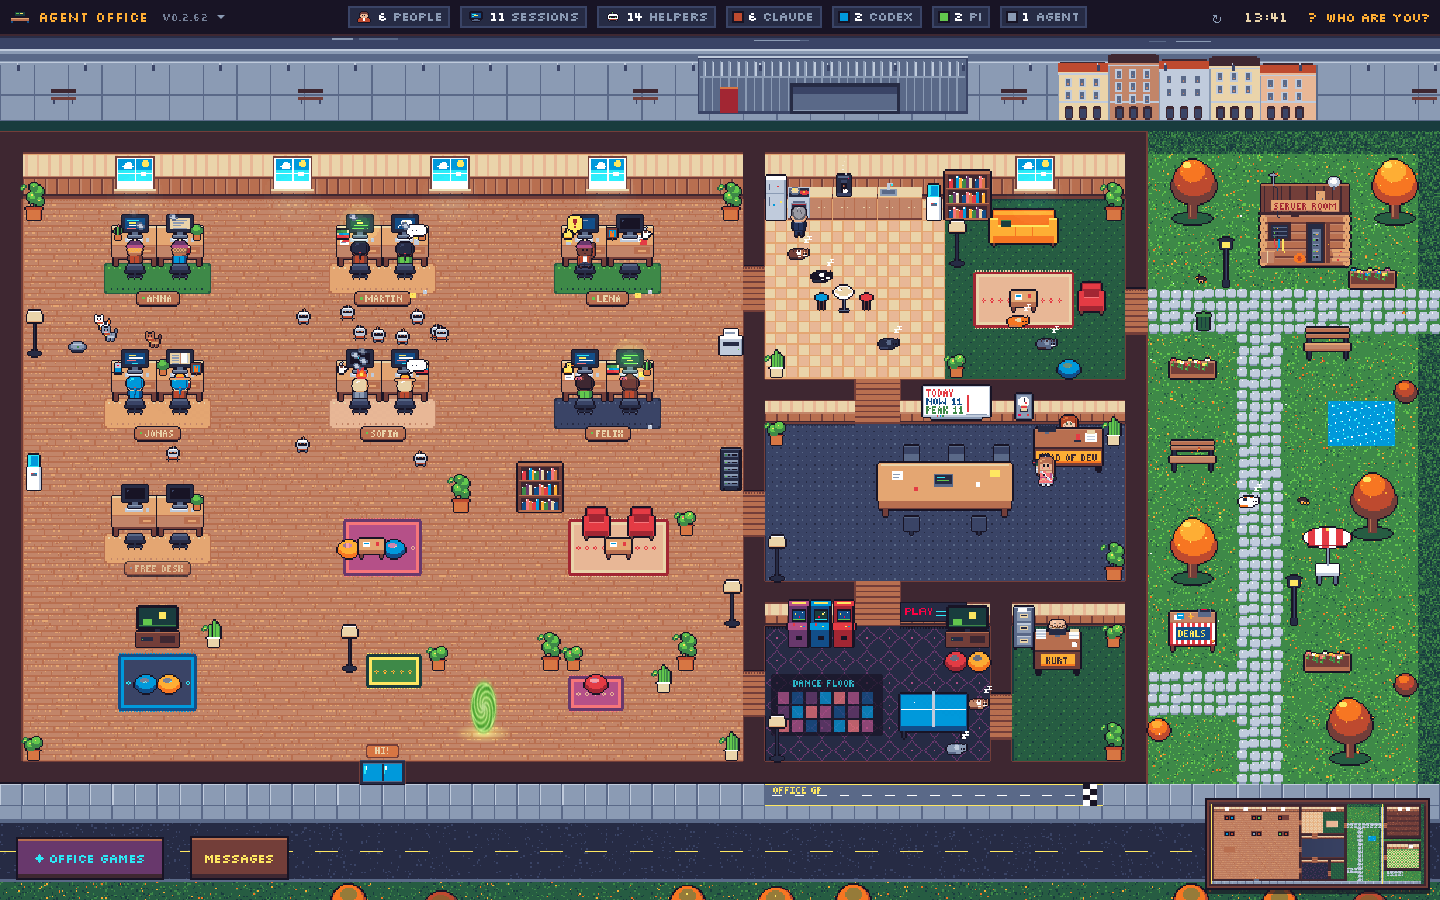
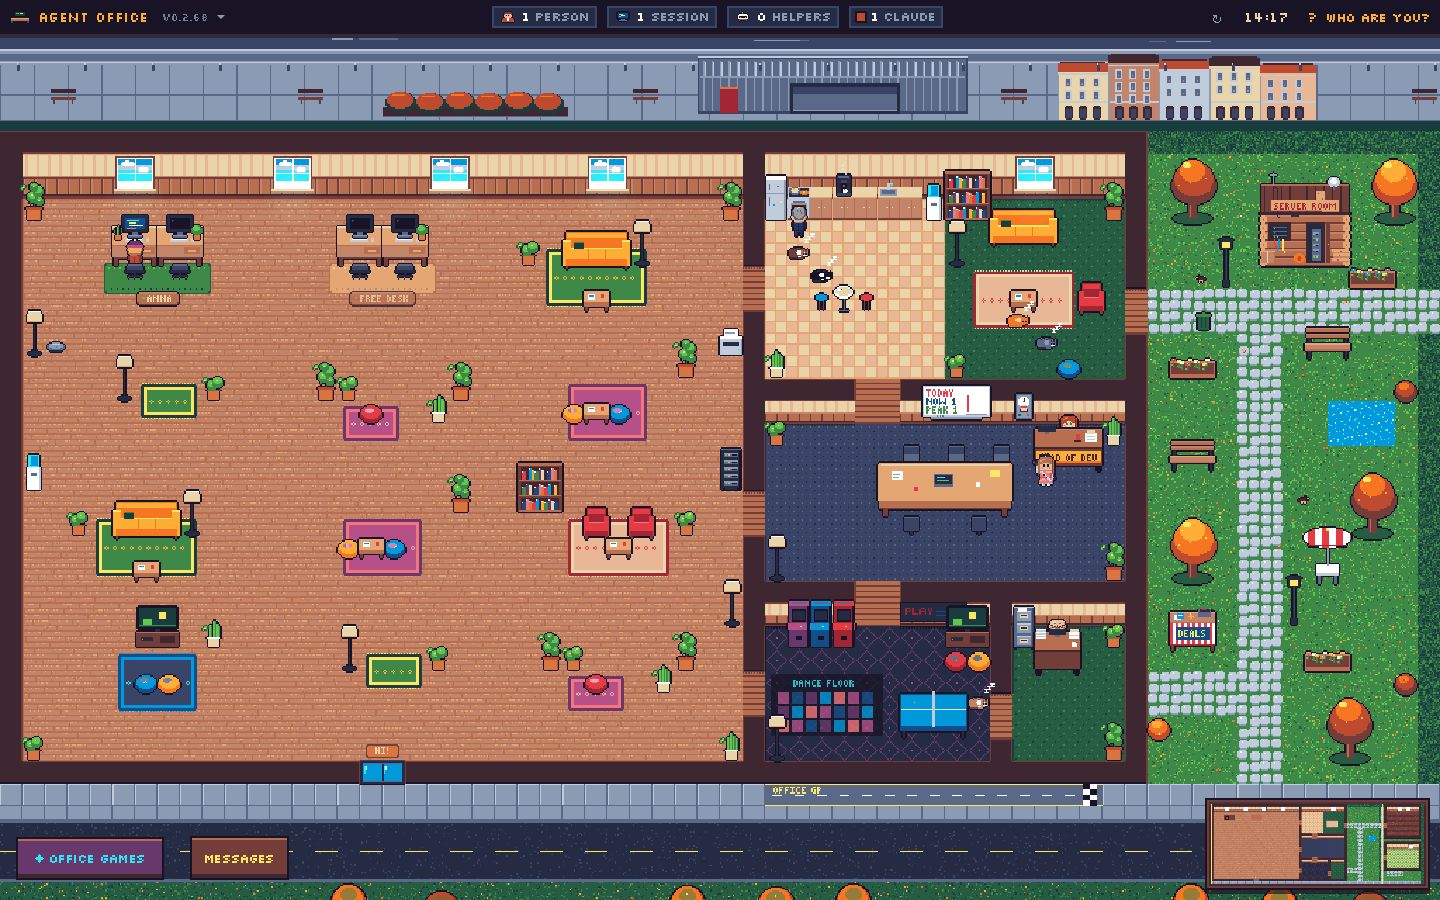
fix: keep Linz night life visible at office fit

diff --git a/apps/web/test/linzLayout.test.ts b/apps/web/test/linzLayout.test.ts
@@ -1,8 +1,10 @@
 import { describe, expect, test } from "bun:test";
+import type { Container } from "pixi.js";
 import { paintLinz } from "../src/art/linz.ts";
 import { C } from "../src/art/palette.ts";
 import { PixelCanvas, packColor } from "../src/art/pixel.ts";
 import { artSeason, setArtSeason } from "../src/art/seasons.ts";
+import { Camera } from "../src/camera.ts";
 import {
   LINZ_SURROUND,
   type LinzRect,
@@ -10,7 +12,7 @@ import {
   linzTreeAllowed,
   overlapsLinzRect,
 } from "../src/world/linzLayout.ts";
-import { buildOfficeMap, TILE } from "../src/world/map.ts";
+import { buildOfficeMap, OFFICE_COLS, TILE } from "../src/world/map.ts";
 
 const contains = (outer: LinzRect, inner: LinzRect) =>
   inner.x >= outer.x &&
@@ -44,9 +46,12 @@ describe("linzLayout", () => {
         expect(height + lane).toBeGreaterThan(l.road.y);
         expect(height + lane).toBeLessThan(l.road.y + l.road.h);
       }
-      expect(contains(l.strips[2]!, l.forest)).toBe(true);
-      expect(overlapsLinzRect(l.forest, l.north)).toBe(false);
-      expect(overlapsLinzRect(l.forest, l.road)).toBe(false);
+      expect(l.nightlife).toEqual(linzLayout(1280, 480).nightlife);
+      for (const region of Object.values(l.nightlife)) {
+        expect(contains(l.nearBank, region)).toBe(true);
+        for (const obstacle of [l.river, l.lentos, l.facades, l.road, ...l.benches])
+          expect(overlapsLinzRect(region, obstacle)).toBe(false);
+      }
       expect(l.north).toEqual(linzLayout(1280, 480).north);
     });
   }
@@ -66,6 +71,52 @@ describe("linzLayout", () => {
     expect(l.river.w).toBe(l.north.w);
   });
 
+  test("night eyes and the entire wolf sprite stay inside their reserved regions", () => {
+    const { eyeVegetation: eyes, wolfPromenade: wolf } = linzLayout(1280, 480).nightlife;
+    expect(overlapsLinzRect(eyes, wolf)).toBe(false);
+    // Runtime eyes are 7×3 at scale 2, with a centred anchor; wolf is 20×16, foot anchored.
+    for (const fraction of [0, 0.25, 0.5, 0.75, 1]) {
+      const eyeX = Math.round(eyes.x + 7 + fraction * (eyes.w - 14));
+      const eyeY = Math.round(eyes.y + 5 + fraction * (eyes.h - 10));
+      expect(contains(eyes, { x: eyeX - 7, y: eyeY - 3, w: 14, h: 6 })).toBe(true);
+      const wolfX = wolf.x + 10 + fraction * (wolf.w - 20);
+      const wolfY = wolf.y + wolf.h - 2;
+      expect(contains(wolf, { x: wolfX - 10, y: wolfY - 16, w: 20, h: 16 })).toBe(true);
+    }
+  });
+
+  for (const [name, width, height, kiosk] of [
+    ["laptop", 1440, 900, false],
+    ["1080p", 1920, 1080, false],
+    ["wall kiosk", 1920, 1080, true],
+    ["iPad kiosk", 1180, 820, true],
+  ] as const) {
+    test(`nightlife stays visible under the HUD at unchanged ${name} office fit`, () => {
+      const map = buildOfficeMap();
+      const world = { scale: { set() {} }, position: { set() {} } } as unknown as Container;
+      const topInset = kiosk ? 46 : 36;
+      const cam = new Camera(
+        world,
+        () => ({ width, height }),
+        () => ({ width: map.width * TILE, height: map.height * TILE }),
+        () => map.areas,
+        { kiosk, holdAuto: !kiosk, topInset, view: "overview" },
+      );
+      cam.fitWidth = () => OFFICE_COLS * TILE;
+      cam.zoomToFit(true);
+      const topLeft = cam.screenToWorld(0, topInset);
+      const bottomRight = cam.screenToWorld(width, height);
+      const visible = {
+        ...topLeft,
+        w: bottomRight.x - topLeft.x,
+        h: bottomRight.y - topLeft.y,
+      };
+      for (const region of Object.values(linzLayout(1280, 480).nightlife))
+        expect(contains(visible, region)).toBe(true);
+      expect(cam.zoom * TILE).toBeCloseTo((width / (OFFICE_COLS * TILE)) * TILE, 5);
+    });
+  }
+
   test("complete tree crowns/shadows cannot intrude into the riverfront", () => {
     const l = linzLayout(1280, 480);
     for (let y = -192; y < 20; y += 4)
@@ -77,7 +128,7 @@ describe("linzLayout", () => {
 });
 
 describe("paintLinz", () => {
-  test("seasonal hill foliage changes without recolouring the river or architecture", () => {
+  test("seasonal hill and riverfront vegetation leave river and architecture unchanged", () => {
     const previous = artSeason();
     const l = linzLayout(1280, 480);
     const sheets: PixelCanvas[] = [];
@@ -89,11 +140,15 @@ describe("paintLinz", () => {
         sheets.push(pc);
       }
       const summer = sheets[0]!;
-      for (const sheet of sheets.slice(1)) {
-        expect(sheet.data.subarray(60 * sheet.width)).toEqual(
-          summer.data.subarray(60 * summer.width),
-        );
-      }
+      const pixels = (sheet: PixelCanvas, rect: LinzRect) => {
+        const result: number[] = [];
+        for (let y = rect.y; y < rect.y + rect.h; y++)
+          for (let x = rect.x; x < rect.x + rect.w; x++) result.push(sheet.get(x, y));
+        return result;
+      };
+      for (const sheet of sheets.slice(1))
+        for (const rect of [l.river, l.aec, l.lentos, l.facades])
+          expect(pixels(sheet, rect)).toEqual(pixels(summer, rect));
       for (const sheet of sheets.slice(1, 3)) expect(sheet.data).not.toEqual(summer.data);
     } finally {
       setArtSeason(previous);

diff --git a/apps/web/src/world/outdoors.ts b/apps/web/src/world/outdoors.ts
@@ -18,7 +18,7 @@ import {
 } from "../art/vehicles.ts";
 import type { Effects } from "./effects.ts";
 import { isFullMoon, type Season, type SkyNow, truckWindow, werewolfHour } from "./lifeRules.ts";
-import { type LinzRect, linzLayout } from "./linzLayout.ts";
+import { type LinzLayout, linzLayout } from "./linzLayout.ts";
 import { TILE } from "./map.ts";
 import type { OfficeScene } from "./office.ts";
 
@@ -179,13 +179,15 @@ class Forest {
   private nextWolf = 40 + Math.random() * 80;
   private nextEyes = 3;
   private howled = "";
-  private forest: LinzRect | null = null;
+  private readonly nightlife: LinzLayout["nightlife"];
 
   constructor(
     layers: Layers,
-    private readonly world: () => { w: number; h: number },
+    world: () => { w: number; h: number },
     private readonly effects: Effects,
   ) {
+    const { w, h } = world();
+    this.nightlife = linzLayout(w, h).nightlife;
     for (let i = 0; i < 4; i++) {
       const s = new Sprite(eyesTextures()[0]!);
       s.anchor.set(0.5);
@@ -205,9 +207,7 @@ class Forest {
   }
 
   update(dt: number, time: number, active: boolean, day: string) {
-    const { w, h } = this.world();
-    if (!this.forest || this.forest.h !== h - 100) this.forest = linzLayout(w, h).forest;
-    const forest = this.forest;
+    const { eyeVegetation, wolfPromenade } = this.nightlife;
     if (!active) {
       for (const e of this.eyes) e.sprite.visible = false;
       if (this.wolfMode !== "none") this.wolfMode = "none";
@@ -215,7 +215,7 @@ class Forest {
       this.wolfEye.visible = false;
       return;
     }
-    // The north is city/water now; forest life stays in the west-side woods.
+    // Low riverfront vegetation keeps eyes visible at office fit, off water/buildings.
     this.nextEyes -= dt;
     if (this.nextEyes <= 0) {
       this.nextEyes = 4 + Math.random() * 9;
@@ -224,8 +224,8 @@ class Forest {
         e.t = 0;
         e.life = 4 + Math.random() * 5;
         e.sprite.position.set(
-          Math.round(forest.x + 16 + Math.random() * (forest.w - 32)),
-          Math.round(forest.y + 16 + Math.random() * (forest.h - 32)),
+          Math.round(eyeVegetation.x + 7 + Math.random() * (eyeVegetation.w - 14)),
+          Math.round(eyeVegetation.y + 5 + Math.random() * (eyeVegetation.h - 10)),
         );
         e.sprite.visible = true;
       }
@@ -238,31 +238,34 @@ class Forest {
       e.sprite.texture = eyesTextures()[blink ? 2 : fading ? 1 : 0]!;
       if (e.t > e.life) e.sprite.visible = false;
     }
-    // now and then a werewolf trots along the forest edge; on full-moon nights it howls
+    // The 20×16 wolf uses an unobstructed promenade segment; full-moon howls are unchanged.
     if (this.wolfMode === "none") {
       this.nextWolf -= dt;
       if (this.nextWolf > 0) return;
       this.nextWolf = 90 + Math.random() * 150;
       this.wolfDir = Math.random() < 0.5 ? 1 : -1;
-      this.wolfX = this.wolfDir > 0 ? forest.x : forest.x + forest.w;
+      this.wolfX = this.wolfDir > 0 ? wolfPromenade.x + 10 : wolfPromenade.x + wolfPromenade.w - 10;
       this.wolfMode = "trot";
       this.wolfT = 0;
       this.wolf.visible = true;
       this.wolf.scale.x = this.wolfDir;
     }
-    const y = Math.round(forest.y + forest.h / 2);
+    const y = wolfPromenade.y + wolfPromenade.h - 2;
     this.wolfT += dt;
     if (this.wolfMode === "trot") {
       this.wolfX += this.wolfDir * 34 * dt;
       this.wolf.texture = werewolfTextures()[Math.floor(time * 6) % 2]!;
-      const mid = Math.abs(this.wolfX - (forest.x + forest.w / 2)) < 20;
+      const mid = Math.abs(this.wolfX - (wolfPromenade.x + wolfPromenade.w / 2)) < 20;
       if (mid && this.howled !== day && isFullMoon(Date.now())) {
         this.howled = day;
         this.wolfMode = "howl";
         this.wolfT = 0;
         this.effects.floater(textBubbleTexture("AWOOOO!"), this.wolfX, y - 18, 3.5, 12);
       }
-      if (this.wolfX < forest.x || this.wolfX > forest.x + forest.w) {
+      if (
+        this.wolfX < wolfPromenade.x + 10 ||
+        this.wolfX > wolfPromenade.x + wolfPromenade.w - 10
+      ) {
         this.wolfMode = "none";
         this.wolf.visible = false;
       }

diff --git a/apps/web/src/art/linz.ts b/apps/web/src/art/linz.ts
@@ -120,8 +120,21 @@ export function paintLinz(pc: PixelCanvas, l: LinzLayout): void {
       pc.rect(wx, -16, 4, 7, C.dusk);
     }
   }
+  // A low planted bed shelters the existing night eyes inside the normal fit view.
+  const v = l.nightlife.eyeVegetation;
+  pc.rect(v.x, v.y + 13, v.w, 7, C.cocoa);
+  const shrubs = foliage(1);
+  for (let i = 0; i < 6; i++) {
+    const x = v.x + 2 + i * 21;
+    const y = v.y + 2 + (i % 2);
+    pc.ellipse(x, y, 22, 15, C.pine);
+    pc.ellipse(x + 1, y, 19, 12, shrubs?.dark ?? C.forest);
+    pc.hline(x + 5, y + 2, 9, shrubs?.mid ?? C.moss);
+  }
+  pc.hline(v.x, v.y + v.h - 1, v.w, C.slate);
+
   // A few quiet benches and bollards unify the promenade, no new POIs.
-  for (const x of [36, 212, 450, 712, 1004, 1180]) {
+  for (const { x } of l.benches) {
     pc.rect(x, -30, 18, 3, C.cocoa);
     pc.rect(x, -24, 18, 2, C.bark);
     pc.vline(x + 2, -22, 3, C.dusk);

diff --git a/apps/web/src/world/linzLayout.ts b/apps/web/src/world/linzLayout.ts
@@ -28,8 +28,13 @@ export function linzLayout(width: number, height: number) {
     facades: { x: 752, y: -54, w: 184, h: 46 },
     sidewalk: { x: -m, y: height, w: width + 2 * m, h: 10 },
     road: { x: -m, y: height + 10, w: width + 2 * m, h: 44 },
-    // A wooded west-side clearing, safely away from both riverfront and southern traffic.
-    forest: { x: -168, y: 50, w: 128, h: height - 100 },
+    // Keep night life in the shallow north band visible at the unchanged office/kiosk fit.
+    // These full sprite/vegetation bounds clear the river, buildings, benches and office.
+    nightlife: {
+      wolfPromenade: { x: 64, y: -30, w: 128, h: 22 },
+      eyeVegetation: { x: 272, y: -30, w: 132, h: 20 },
+    },
+    benches: [36, 212, 450, 712, 1004, 1180].map((x) => ({ x, y: -30, w: 18, h: 11 })),
     treeExclusions: [north],
   };
 }

diff --git a/docs/linz-surroundings.md b/docs/linz-surroundings.md
@@ -12,12 +12,19 @@ there are no new POIs, animations, shader effects, copied assets or per-frame pa
 `art/linz.ts` paints the north strip using the existing PixelCanvas offsets/clipping. Terrain still
 uploads exactly four surround textures, owned and destroyed by the existing floor rebuild lifecycle.
 The southern sidewalk, road, vehicle lanes, office, garden, businesses, paths and map dimensions
-are unchanged. Forest eyes/wolf use the wooded west side rather than the riverfront. Seasonal
-lawn/trees remain; distant hill foliage uses the existing seasonal palette.
+are unchanged. Night eyes shelter in a bounded low planted bed on the near bank, while the
+werewolf uses a separate unobstructed promenade segment. Both stay inside the shallow visible
+north band at normal laptop, 1080p wall and kiosk office fit, clear of the river, museums, historic
+facades, benches and office walls. Full sprite bounds, not just centre points, are reserved.
+Seasonal lawn/trees remain; distant hill and near-bank foliage use the existing seasonal palette.
 
 Camera and minimap are unchanged. **Office fit is not scenery fit**: the hill/AEC can be clipped
 on laptops, portrait phones and grown maps. Office legibility takes priority over showing every
 landmark. The full-scene screenshots use zoom 1 at 1920×1080; normal laptop fit is 1440×900.
+A foreground river sliver was considered during PR56 review but not added: keeping one continuous
+Danube between the existing opposite banks avoids disconnected water or crowding the museums and
+nightlife. No camera/map changes were needed for the required nightlife visibility correction.
+As before, grown maps whose height fills the viewport can clip the north scenery.
 
 ## Visual references
 
@@ -39,13 +46,29 @@ Official photographs were viewed to understand silhouettes; none are bundled or 
 - `screenshots/linz-full-night.png`: existing night overlay, no new animated lighting.
 - `screenshots/linz-fit-day-laptop.png`: normal office framing and scale preserved.
 
+These three previews use the real server and a one-person simulator scenario. PR56 visibility
+review also captured normal laptop night fit and 1080p kiosk night fit: the wolf is visible on the
+promenade and the eyes inside the planted bed, with no browser errors. The Danube remains visible
+in full-scene views; no guarantee that every fitted view includes water or the distant landmarks.
+
 Run `bun test apps/web/test/linzLayout.test.ts apps/web/test/map.test.ts apps/web/test/camera.test.ts`
 for layout, bank/tree exclusions, deterministic pixels, seasonal isolation and growing-map coverage.
+Nightlife tests also check full eye/wolf sprite bounds, obstacle exclusions and the actual unchanged
+Camera fit below the HUD at laptop, 1080p, wall-kiosk and iPad-kiosk sizes.
 Use the existing real-server/simulator screenshot harness for visual checks.
 
-Implementation-time tests, lint, typecheck, web build and explicit E2E passed on Bun 1.4.1;
-CI uses pinned Bun 1.4.4. Day/night, desktop/tablet/phone and reduced-motion captures were reviewed.
-Static wall/road comparison crops showed unchanged initial framing and southern terrain.
+PR56 visibility revision: 29 focused tests and 769 full-suite tests passed (5 gated E2E skips),
+plus lint, typecheck and production web build, on Bun 1.4.1; CI uses pinned Bun 1.4.4. The initial
+Linz delivery also checked explicit E2E, tablet/phone and reduced-motion captures, and static
+wall/road comparison crops showed unchanged initial framing and southern terrain.
+
+Extra PR56 evidence/logs remain outside the repository in
+`/private/tmp/agent-office-linz-review-evidence/pr56-visibility/`: stable laptop nightlife is in
+`linz-fit-night-laptop-41.5s.png` and stable kiosk nightlife in `linz-kiosk-fit-night-40.5s.png`.
+Two additional resize-transition captures are labelled as such, not as settled fit evidence.
+Earlier screenshot colour oracles were false negatives: additive glow is not the unblended eye
+colour, and busy-scenario characters can legitimately widen the fit when they visit the east block.
+The corrected one-person capture used existing timers and visual review, not pixel-colour proxies.
 
 A pre-existing browser exception during the live 12→13-person map-growth transition was reproduced
 both with and without this feature: the rebuild destroys the graveyard sign before retained

diff --git a/DECISIONS.md b/DECISIONS.md
@@ -141,7 +141,7 @@ Implementer-decides choices from `PLAN.md`, one line of reasoning each. Newest a
 | W22 | Demo mix           | Busy demo: one 5-session power user, no random initial `waiting` (exactly 2), waiting sessions resume work on their next change, never more than 2 waiting; idle ~12% | Matches what a real office looks like most of the time. |
 | W23 | Growth row         | Extra pod rows are inserted before the last floor row (y 27), so the doormat, corner plants and lamps stay at the bottom wall | They were left floating mid-floor when the office grew. |
 | W24 | Claude Design agent   | Agent kind `design` ("Claude Design"): berry jacket (`#f6757a` / `#b55088` / `#68386c`), artboard-and-pen icon, own chip in the top bar and bar in /stats | Presence in the desktop app is not a Claude Code session; a separate kind keeps "Claude" counts honest. |
-| W25 | Linz surroundings | A geographically compressed, static Linz riverfront in the existing 192 px north surround: Pöstlingberg hill/basilica, far-bank AEC, continuous Danube, near-bank Lentos with through-opening, Hauptplatz-inspired fronts. Pure `world/linzLayout.ts` geometry and `art/linz.ts` paint into the existing four owned floor strips; forest life moves to west-side woods. Office/map/paths, southern traffic, fit, minimap and seasons stay unchanged; landmarks may be clipped at office fit. No new POIs, effects, airport or international landmarks. See [design and reference photos](docs/linz-surroundings.md). | Recognisable local context without making the office smaller or adding per-frame rendering/resource ownership. |
+| W25 | Linz surroundings | A geographically compressed, static Linz riverfront in the existing 192 px north surround: Pöstlingberg hill/basilica, far-bank AEC, continuous Danube, near-bank Lentos with through-opening, Hauptplatz-inspired fronts. Pure `world/linzLayout.ts` geometry and `art/linz.ts` paint into the existing four owned floor strips; night eyes use bounded low near-bank vegetation and the wolf an unobstructed promenade segment, both inside normal office/kiosk fit with full sprite bounds clear of buildings/water/benches. Office/map/paths, southern traffic, fit, minimap and seasons stay unchanged; landmarks may be clipped at office fit. No new POIs, effects, airport or international landmarks. See [design and reference photos](docs/linz-surroundings.md). | Recognisable local context without making the office smaller or adding per-frame rendering/resource ownership. |
 
 Unbuilt renderer ideas: weather in windows, sitting on chairs with chair turning, name tags for wanderers, true bubble collision avoidance across pods, GenUI side-panel components, nook furniture in the minimap, people chatting in pairs in the nooks.
 

diff --git a/CHANGELOG.md b/CHANGELOG.md
@@ -7,7 +7,7 @@ banner after a deploy.
 
 ## 2026-11-12
 
-- 🏙 The office now overlooks Linz: the Danube, Pöstlingberg's twin towers, the Ars Electronica Center, Lentos and pastel old-town fronts sit quietly beyond the office walls
+- 🏙 The office now overlooks Linz: the Danube, Pöstlingberg's twin towers, the Ars Electronica Center, Lentos and pastel old-town fronts sit quietly beyond the office walls; the night eyes and werewolf stay in view along the riverfront
 - Timelapse now lets you watch All frames or one day in your browser's local timezone, with matching counts and thumbnails, and warms only a few frames ahead instead of the whole recording
 - `agent-office status --json` now gives scripts a privacy-safe health snapshot, without config, project names or server credentials
 - 🚢 Schiffe versenken and Vier gewinnt: challenge a colleague from their nameplate and play a move whenever you get to it; your portrait in the top bar shows when it is your turn
